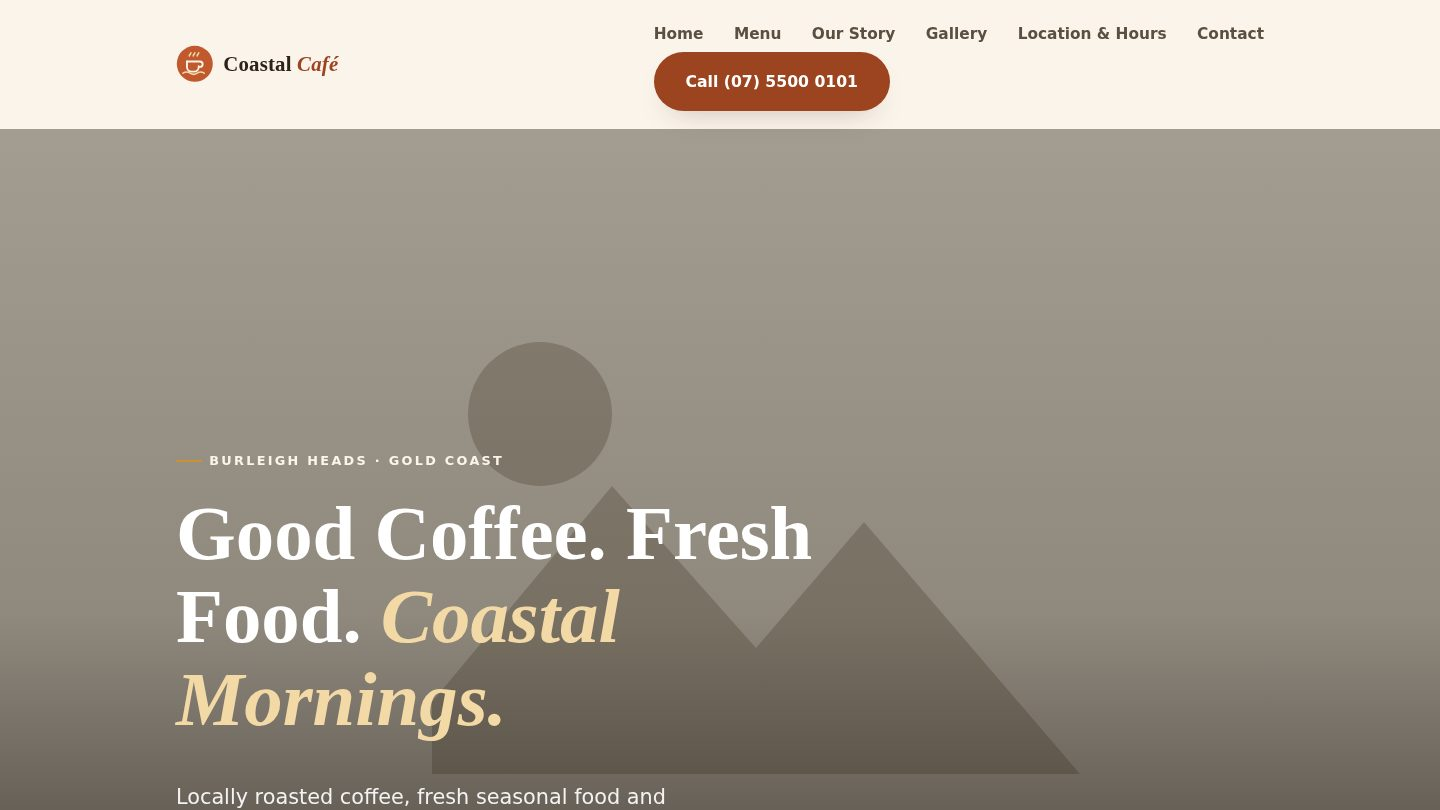
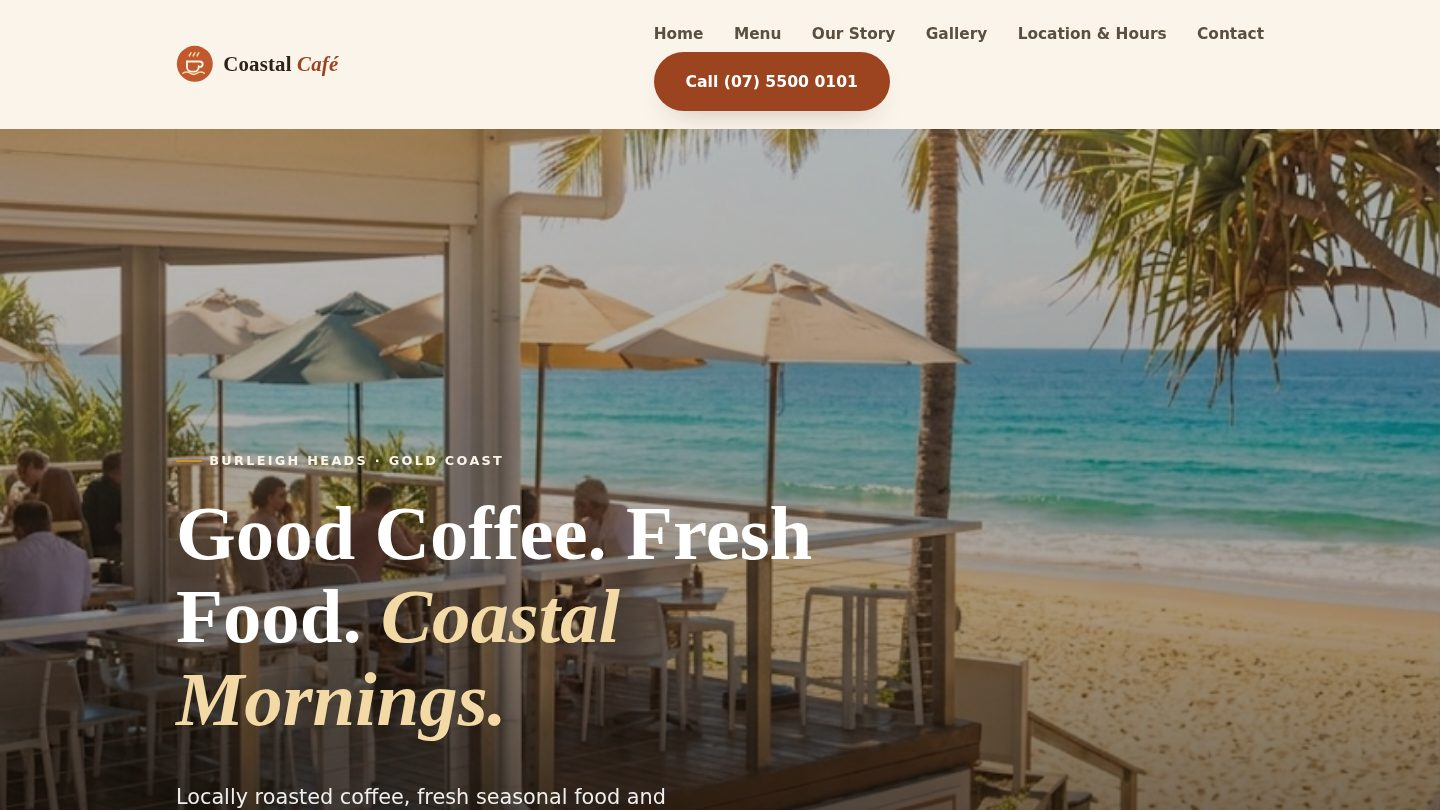
Replace Coastal Café hero image with a real client-supplied photo
Self-hosted under demos/coastal-cafe/images/ instead of hotlinking
Unsplash, so it no longer depends on an unverified external URL.

diff --git a/demos/coastal-cafe/index.html b/demos/coastal-cafe/index.html
@@ -15,14 +15,14 @@
 <meta property="og:title" content="Coastal Café | Coffee &amp; Breakfast Gold Coast">
 <meta property="og:description" content="Fresh coffee, breakfast and relaxed coastal dining on the Gold Coast.">
 <meta property="og:url" content="https://webcloudsolutions.com.au/demos/coastal-cafe/">
-<meta property="og:image" content="https://images.unsplash.com/photo-1495474472287-4d71bcdd2085?auto=format&amp;fit=crop&amp;w=1600&amp;q=75&amp;fm=webp">
+<meta property="og:image" content="https://webcloudsolutions.com.au/demos/coastal-cafe/images/hero-beachfront.png">
 <meta property="og:locale" content="en_AU">
 
 <!-- Twitter -->
 <meta name="twitter:card" content="summary_large_image">
 <meta name="twitter:title" content="Coastal Café | Coffee &amp; Breakfast Gold Coast">
 <meta name="twitter:description" content="Fresh coffee, breakfast and relaxed coastal dining on the Gold Coast.">
-<meta name="twitter:image" content="https://images.unsplash.com/photo-1495474472287-4d71bcdd2085?auto=format&amp;fit=crop&amp;w=1600&amp;q=75&amp;fm=webp">
+<meta name="twitter:image" content="https://webcloudsolutions.com.au/demos/coastal-cafe/images/hero-beachfront.png">
 
 <link rel="preconnect" href="https://fonts.googleapis.com">
 <link rel="preconnect" href="https://fonts.gstatic.com" crossorigin>
@@ -34,7 +34,7 @@
   "@context": "https://schema.org",
   "@type": "CafeOrCoffeeShop",
   "name": "Coastal Café",
-  "image": "https://images.unsplash.com/photo-1495474472287-4d71bcdd2085?auto=format&fit=crop&w=1600&q=75&fm=webp",
+  "image": "https://webcloudsolutions.com.au/demos/coastal-cafe/images/hero-beachfront.png",
   "url": "https://webcloudsolutions.com.au/demos/coastal-cafe/",
   "telephone": "+61-7-5500-0101",
   "email": "hello@coastalcafe.example",
@@ -157,10 +157,10 @@
   <section id="home" class="hero">
     <div class="hero-media">
       <img
-        src="https://images.unsplash.com/photo-1495474472287-4d71bcdd2085?auto=format&fit=crop&w=1600&q=75&fm=webp"
-        alt="A cup of coffee resting on a sunlit wooden café table, steam rising in the warm morning light"
+        src="images/hero-beachfront.png"
+        alt="Café deck with beachside seating under umbrellas, palm trees and the ocean at Burleigh Heads, Gold Coast"
         fetchpriority="high"
-        width="1600" height="900">
+        width="853" height="1024">
     </div>
     <div class="wrap hero-inner">
       <p class="hero-eyebrow">Burleigh Heads · Gold Coast</p>
